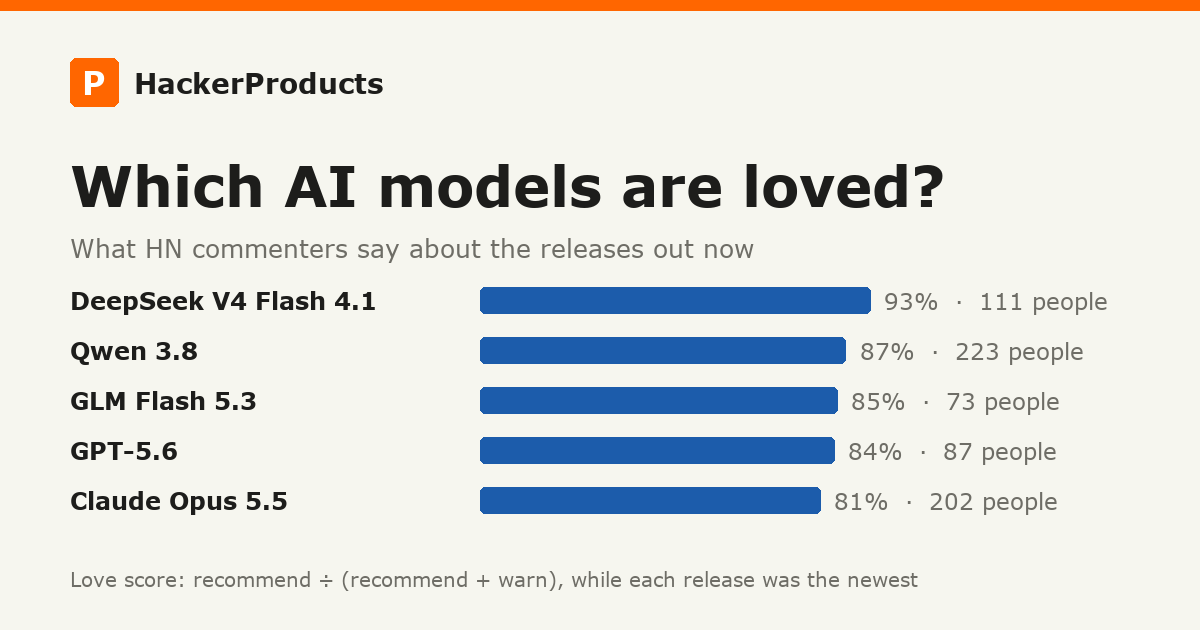
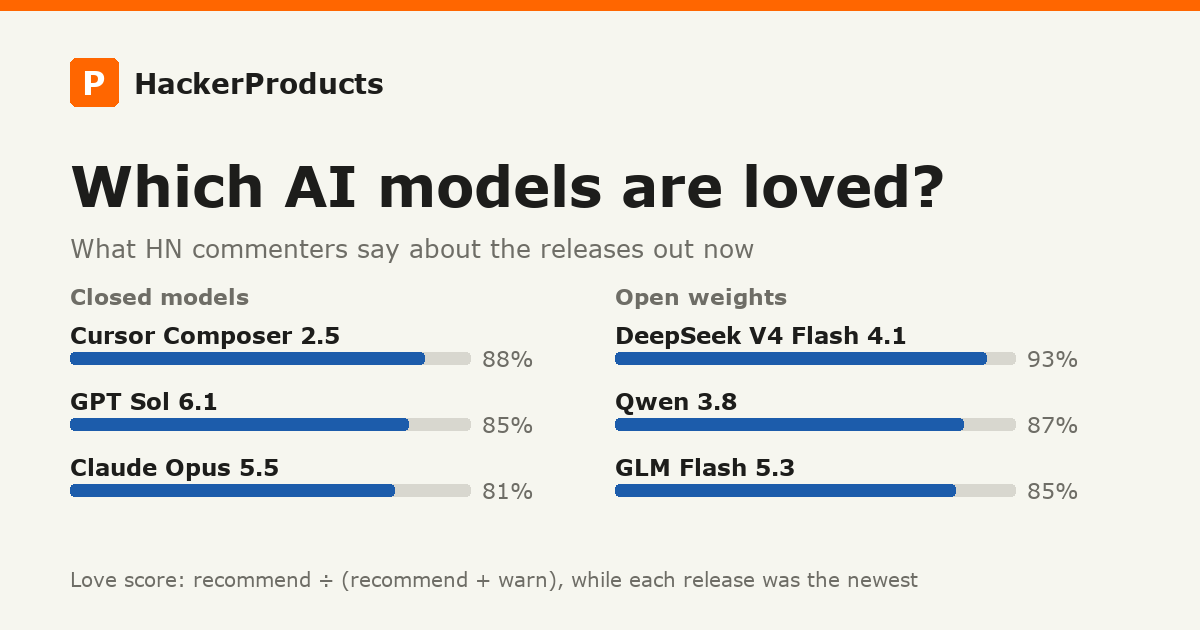
Compare like with like in the home panel and versions share image: top three closed and top three open-weight releases

Changed region(s): [[0.0617, 0.4524, 0.925, 0.8143], [0.8325, 0.4524, 0.925, 0.5127]]

diff --git a/site/src/styles/global.css b/site/src/styles/global.css
@@ -375,12 +375,15 @@ details.allc[open] > summary::after { content: "Hide ↑"; }
 .chip-go { border-color: var(--accent); color: var(--accent-ink); }
 .loved-now { display: block; margin: 12px 0 12px; padding: 10px 12px; border: 1px solid var(--rule); border-left: 3px solid var(--accent); border-radius: 4px; text-decoration: none; background: var(--card); }
 .loved-hd { display: block; font-size: 13px; margin-bottom: 8px; }
-.loved-grid { display: grid; grid-template-columns: repeat(4, minmax(0, 1fr)); gap: 12px; }
+.loved-row { display: grid; grid-template-columns: 112px minmax(0, 1fr); gap: 10px; align-items: start; padding-top: 8px; }
+.loved-row + .loved-row { margin-top: 8px; border-top: 1px solid var(--rule); }
+.loved-grid { display: grid; grid-template-columns: repeat(3, minmax(0, 1fr)); gap: 12px; }
 .loved-item { display: flex; flex-direction: column; gap: 3px; min-width: 0; }
-.loved-kind { font-size: 10px; color: var(--muted); }
+.loved-kind { font-size: 12px; font-weight: 600; color: var(--muted); }
 .loved-name { font-size: 12px; font-weight: 600; white-space: nowrap; overflow: hidden; text-overflow: ellipsis; }
 @media (max-width: 640px) {
-  .loved-grid { grid-template-columns: repeat(2, minmax(0, 1fr)); }
+  .loved-row { grid-template-columns: minmax(0, 1fr); gap: 6px; }
+  .loved-grid { grid-template-columns: minmax(0, 1fr); gap: 8px; }
   /* Family table as stacked cards */
   .fam-scroll { overflow: visible; }
   #famtable, #famtable tbody, #famtable tr, #famtable td, #famtable th { display: block; width: auto; }

diff --git a/pipeline/og_cards.py b/pipeline/og_cards.py
@@ -58,22 +58,25 @@ def compare(cat):
 
 
 def versions(cat):
-    rel = cat["compare"]["releases"]
-    seen, rows = set(), []
-    for x in sorted((x for x in rel if x["cur"] and x["p"] >= 50), key=lambda x: -x["r"] / (x["r"] + x["w"])):
-        if x["f"] not in seen:
-            seen.add(x["f"])
-            rows.append(x)
-    rows = rows[:5]
+    def top(is_open):
+        seen, rows = set(), []
+        for x in sorted((x for x in cat["compare"]["releases"] if x["cur"] and x["o"] == is_open), key=lambda x: -x["r"] / (x["r"] + x["w"])):
+            if x["f"] not in seen:
+                seen.add(x["f"])
+                rows.append(x)
+        return rows[:3]
     im, d = base("Which AI models are loved?", "What HN commenters say about the releases out now")
-    y = 300
-    for x in rows:
-        love = x["r"] / (x["r"] + x["w"])
-        d.text((70, y), x["l"], font=f(24, True), fill=TEXT, anchor="lm")
-        w = 420 * love
-        d.rounded_rectangle((480, y - 13, 480 + w, y + 13), 5, fill=LOVE)
-        d.text((480 + w + 14, y), f"{round(love * 100)}%  ·  {x['p']} people", font=f(23), fill=MUTED, anchor="lm")
-        y += 50
+    for col, (label, rows) in enumerate((("Closed models", top(False)), ("Open weights", top(True)))):
+        x0 = 70 + col * 545
+        d.text((x0, 296), label, font=f(22, True), fill=MUTED, anchor="lm")
+        y = 334
+        for x in rows:
+            love = x["r"] / (x["r"] + x["w"])
+            d.text((x0, y), x["l"], font=f(23, True), fill=TEXT, anchor="lm")
+            d.rounded_rectangle((x0, y + 18, x0 + 400, y + 30), 4, fill=MID)
+            d.rounded_rectangle((x0, y + 18, x0 + 400 * love, y + 30), 4, fill=LOVE)
+            d.text((x0 + 412, y + 24), f"{round(love * 100)}%", font=f(22), fill=MUTED, anchor="lm")
+            y += 66
     foot(d, "Love score: recommend ÷ (recommend + warn), while each release was the newest")
     im.save(OUT / "versions.png", optimize=True)
 
